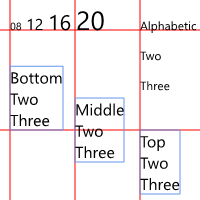
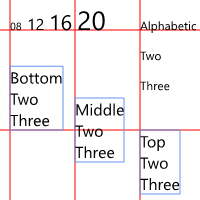
Use canvas reference, fix test collection

Changed region(s): [[0.12, 0.06, 0.36, 0.15], [0.39, 0.03, 0.54, 0.18]]

diff --git a/testbed/tests/app/test_desktop.py b/testbed/tests/app/test_desktop.py
@@ -604,9 +604,7 @@ async def test_current_window(app, app_probe, main_window, main_window_probe):
 
 
 @pytest.mark.parametrize("mock_scale", [1.0, 1.25, 1.5, 1.75, 2.0])
-async def test_system_dpi_change(
-    main_window, main_window_probe, event_path, mock_scale
-):
+async def test_system_dpi_change(main_window, main_window_probe, mock_scale):
     if toga.platform.current_platform != "windows":
         pytest.xfail("This test is winforms backend specific")
 